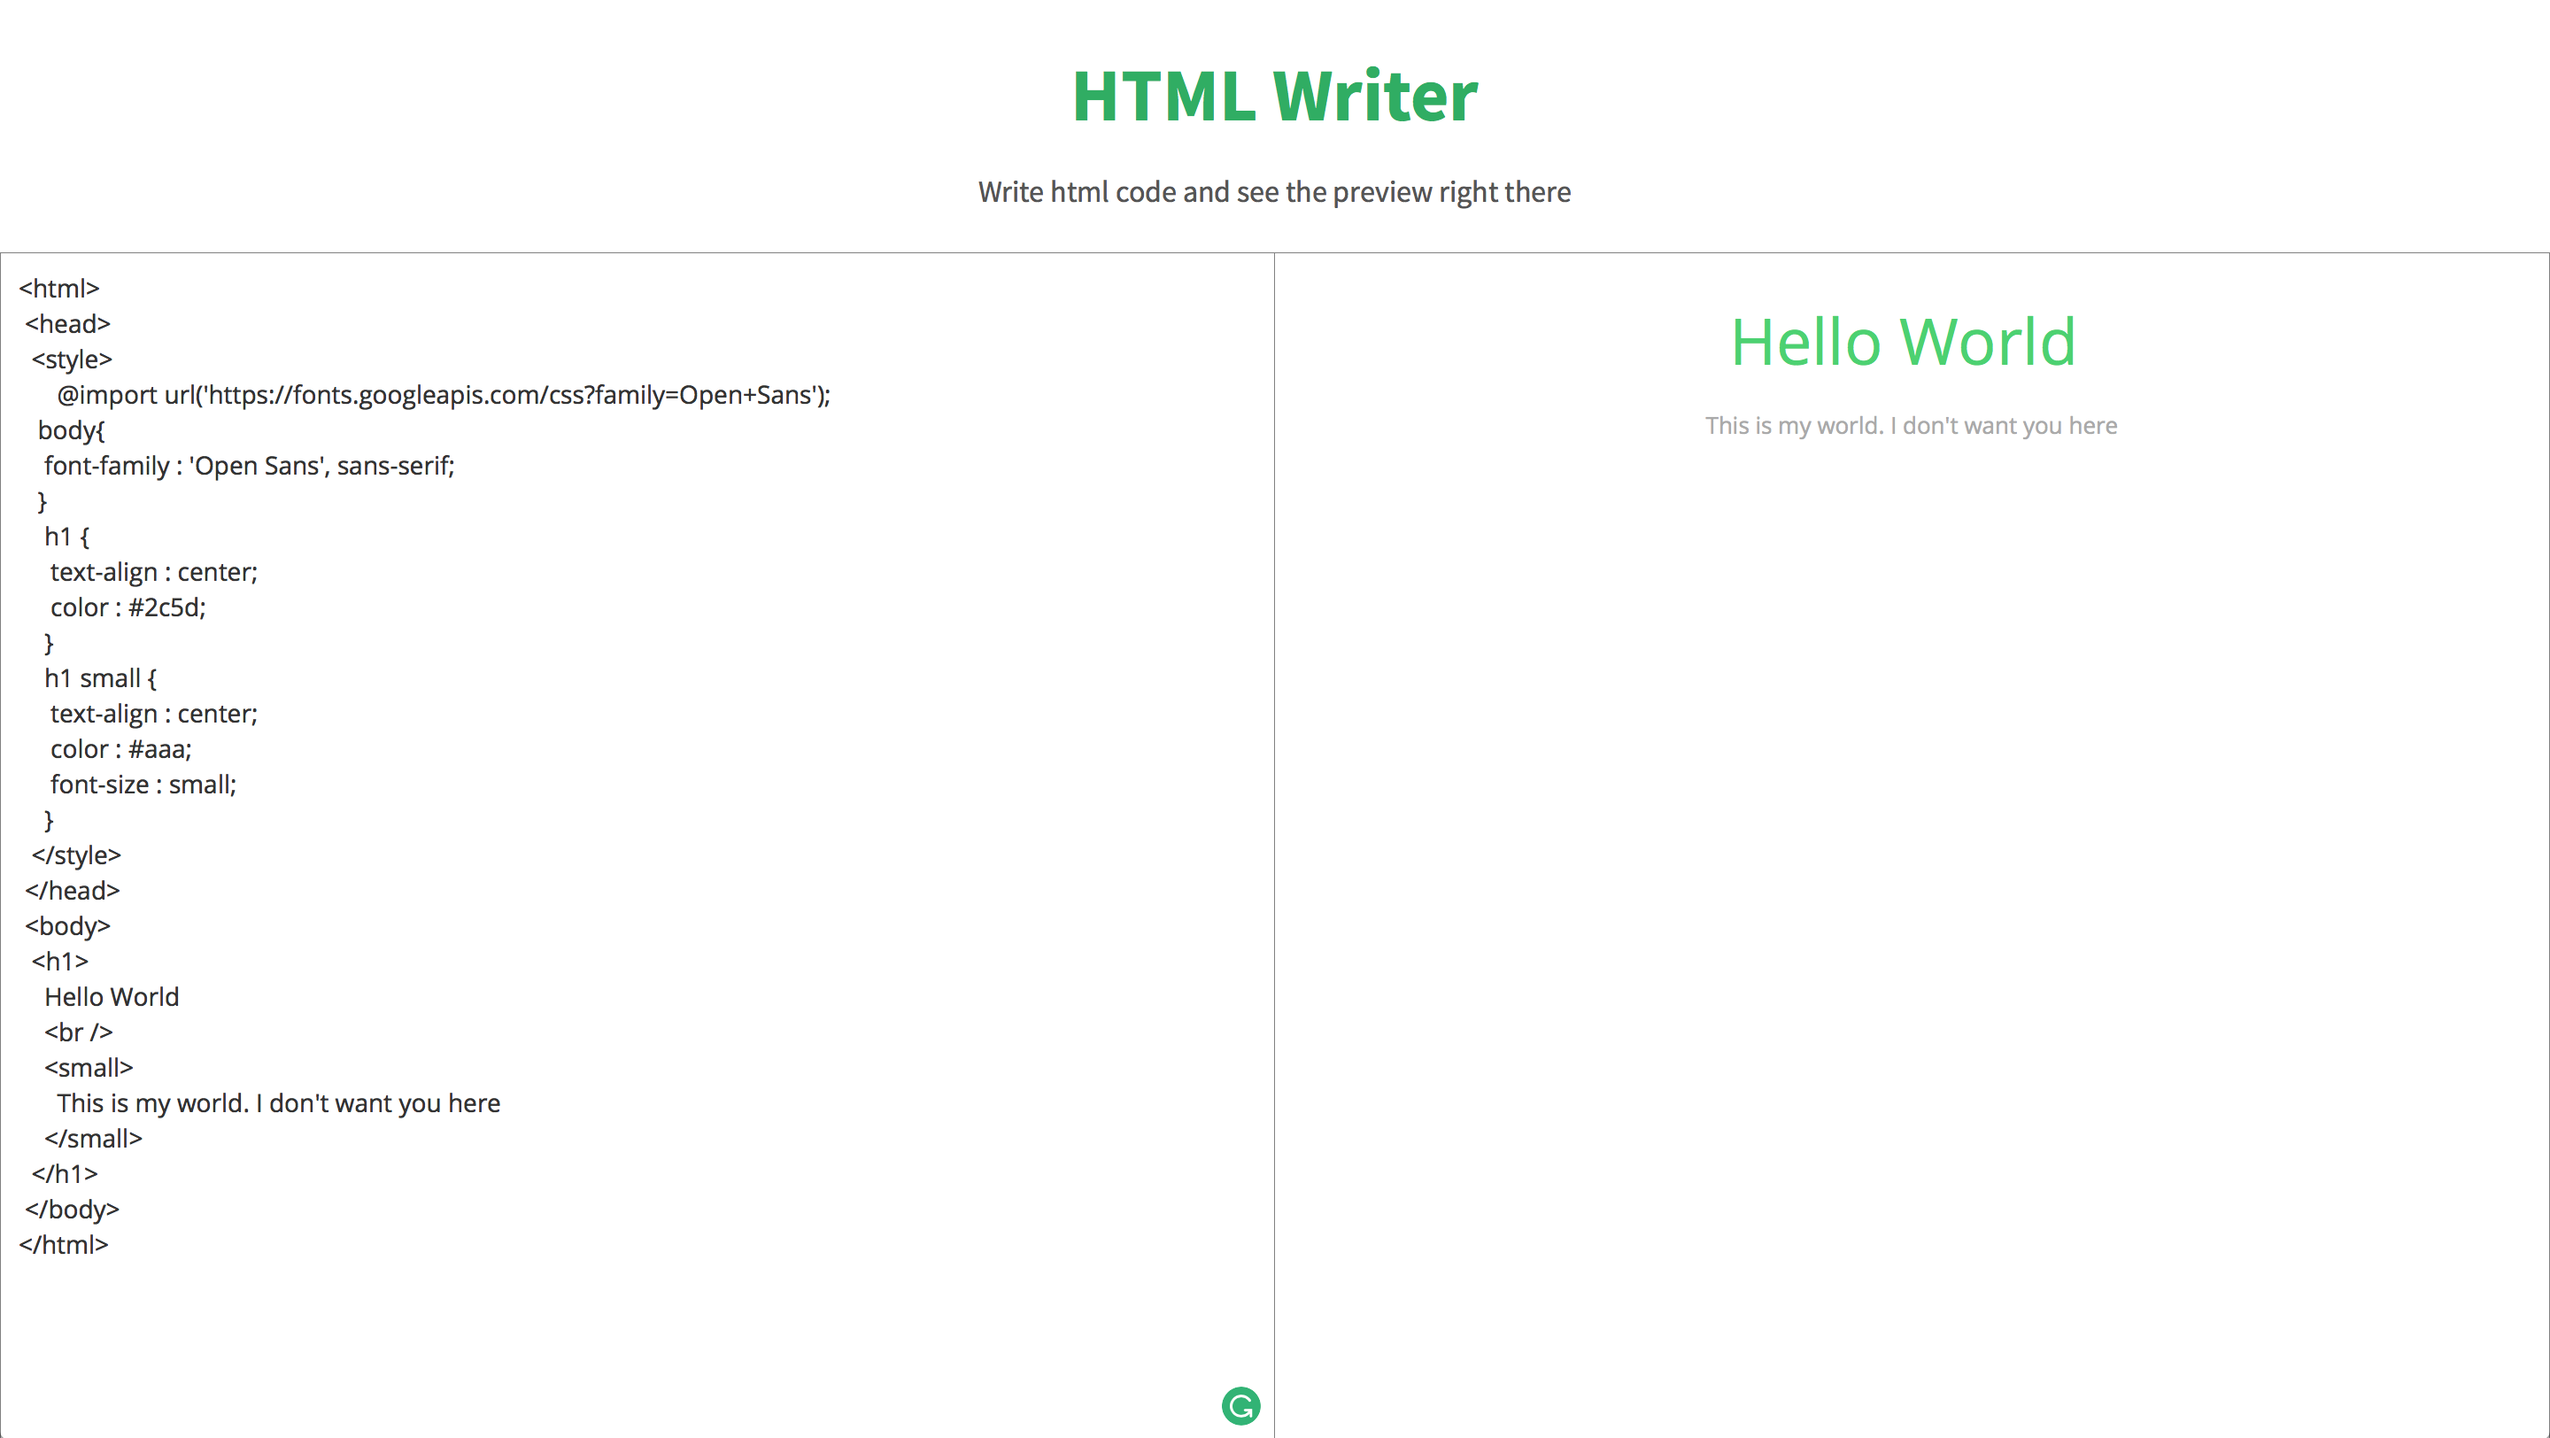
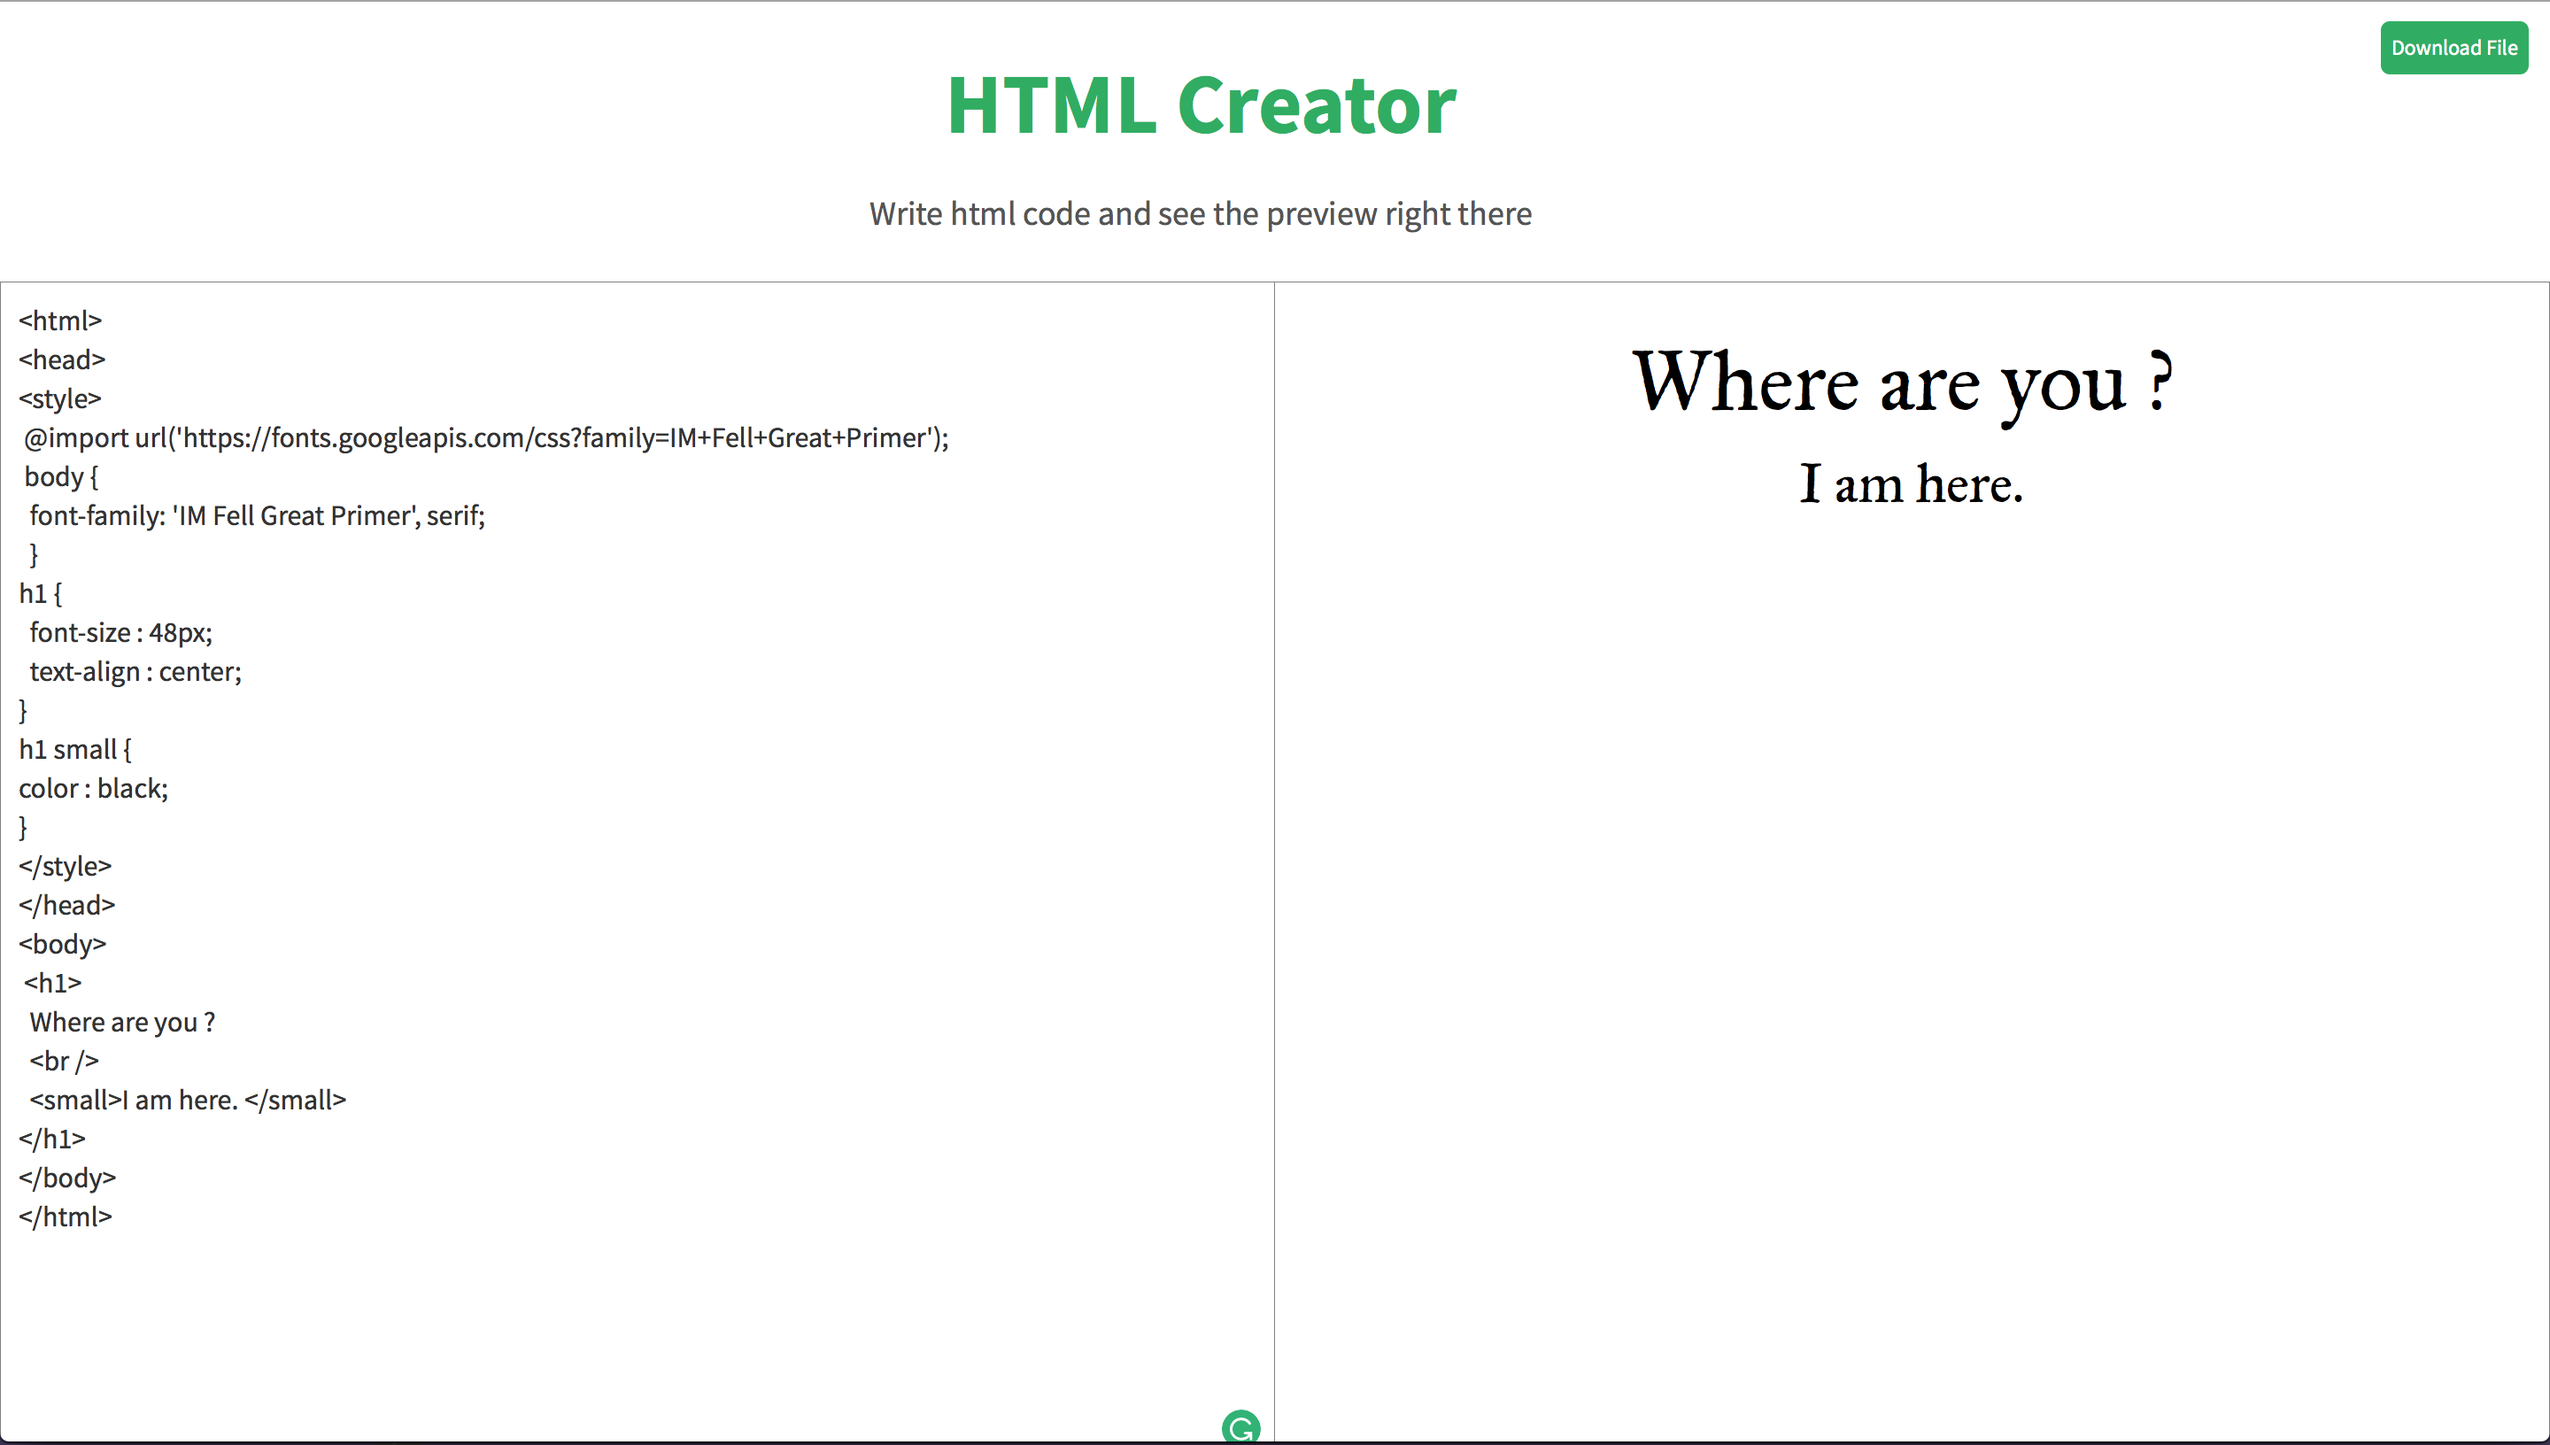
Custom Styles and Fonts feature and Dowloading HTML feature added

diff --git a/src/App.css b/src/App.css
@@ -1,30 +1,45 @@
 @import url("https://fonts.googleapis.com/css?family=Source+Sans+Pro:300,400,700");
-.views, textarea, .previewer {
+.views, .text-area-default, .previewer {
   width: 50%;
-  min-height: 82.5vh;
+  min-height: 82vh;
   padding: 10px;
   border: 0.2px solid gray; }
 
 body {
-  scroll-behavior: smooth; }
-  body nav {
-    font-family: "Source Sans Pro", sans-serif;
-    padding: 10px;
-    height: 17.5vh; }
-    body nav h1 {
-      font-size: 3em;
-      color: #27ae60;
-      font-weight: 700;
-      text-align: center; }
-      body nav h1 small {
-        font-size: 0.40em;
-        color: #555;
-        font-weight: 400; }
+  scroll-behavior: smooth;
+  font-size: 16px; }
 
-textarea {
+.navbar {
+  font-family: "Source Sans Pro", sans-serif !important;
+  padding: 10px;
+  height: 17vh;
+  display: flex; }
+  .navbar h1 {
+    font-size: 3em;
+    color: #27ae60;
+    font-weight: 700;
+    text-align: center;
+    flex: auto; }
+    .navbar h1 small {
+      font-size: 0.4em;
+      color: #555;
+      font-weight: 400; }
+  .navbar button {
+    flex-shrink: auto;
+    flex-direction: row;
+    border-radius: 5px;
+    vertical-align: middle;
+    max-height: 30px;
+    font-size: 1.5ch;
+    border: 0px;
+    background-color: #27ae60;
+    color: #fff; }
+
+.text-area-default {
+  font-family: "Source Sans Pro", sans-serif !important;
   float: left;
   resize: none; }
-  textarea:focus {
+  .text-area-default:focus {
     outline: 0px; }
 
 .flex-or-grid {
@@ -36,22 +51,28 @@ textarea {
   color: black;
   border-left: 0px; }
 
-@media (min-width: 768px) and (max-width: 1023px) {
-  nav h1 {
-    font-size: 2em; }
-    nav h1 small {
-      font-size: 0.5em; }
+@media (min-width: 768px) and (max-width: 1024px) {
+  nav {
+    height: 15vh; }
+    nav h1 {
+      font-size: 2em; }
+      nav h1 small {
+        font-size: 0.5em; }
+  .views, .text-area-default, .previewer {
+    height: 85vh; }
   .flex-or-grid {
     display: block; } }
 
-@media (max-width: 768px) {
-  nav h1 {
-    font-size: 2em; }
-    nav h1 small {
-      font-size: 0.55em; }
+@media (max-width: 500px) {
+  nav {
+    height: 10vh; }
+    nav h1 {
+      font-size: 1em; }
+      nav h1 small {
+        font-size: 0.75em; }
   .flex-or-grid {
     display: block; }
     .flex-or-grid .previewer {
       width: 100%; }
-    .flex-or-grid textarea {
+    .flex-or-grid .text-area-default {
       width: 100%; } }

diff --git a/src/App.sass b/src/App.sass
@@ -2,42 +2,58 @@
 
 $primary-color : #27ae60
 $primary-accent-text : #555
+$primary-accent-text-light : #fff
 $secondary-color : #222222
 $secondary-accent-text : #ddd
 $font-stack : 'Source Sans Pro', sans-serif
 
 
-$tablet : "(min-width : 768px) and (max-width : 1023px)"
-$phone : "(max-width : 768px)"
-$desktop : "(min-width : 1024px)"
+$tablet : "(min-width : 768px) and (max-width : 1024px)"
+$phone : "(max-width : 500px)"
+$desktop : "(min-width : 1025px)"
 
 .views
 	width: 50%
-	min-height: 82.5vh
+	min-height: 82vh
 	padding: 10px
 	border: 0.2px solid gray
 
 body
 	scroll-behavior: smooth
+	font-size: 16px
 
-	nav
-		font-family: $font-stack
-		padding: 10px
-		height : 17.5vh
+.navbar
+	font-family: $font-stack !important
+	padding: 10px
+	height : 17vh
+	display: flex
 
-		h1
-			font-size: 3em
-			color: $primary-color
-			font-weight: 700
-			text-align: center
+	h1
+		font-size: 3em
+		color: $primary-color
+		font-weight: 700
+		text-align: center
+		flex: auto
 
-			small
-				font-size: 0.40em
-				color: $primary-accent-text
-				font-weight: 400
+		small
+			font-size: 0.4em
+			color: $primary-accent-text
+			font-weight: 400
 
-textarea
+	button
+		flex-shrink: auto
+		flex-direction: row
+		border-radius: 5px
+		vertical-align: middle
+		max-height: 30px
+		font-size: 1.5ch
+		border: 0px
+		background-color: $primary-color
+		color: $primary-accent-text-light
+
+.text-area-default
 	@extend .views
+	font-family: $font-stack !important
 	float: left
 	resize: none
 
@@ -47,6 +63,7 @@ textarea
 
 .flex-or-grid
 	display: flex
+
 
 .previewer
 	@extend .views
@@ -58,20 +75,23 @@ textarea
 
 @media #{$tablet}
 	nav
+		height: 15vh
 		h1
 			font-size: 2em
 			small
 				font-size: 0.5em
-
+	.views
+		height: 85vh
 	.flex-or-grid
 		display: block
 
 @media #{$phone}
 	nav
+		height: 10vh
 		h1
-			font-size: 2em
+			font-size: 1em
 			small
-				font-size: 0.55em
+				font-size: 0.75em
 
 	.flex-or-grid
 		display: block
@@ -79,5 +99,5 @@ textarea
 		.previewer
 			width: 100%
 
-		textarea
+		.text-area-default
 			width: 100%

diff --git a/src/components/header.js b/src/components/header.js
@@ -1,15 +1,33 @@
 import React, { Component } from 'react';
+import { connect } from 'react-redux';
+import FileSaver from 'file-saver';
 
-export default class Header extends Component {
+let blob = new Blob();
+
+class Header extends Component {
+	handleDownload = () => {
+		FileSaver.saveAs(blob, 'preview.html');
+	};
+
 	render() {
+		blob = new Blob([this.props.data], { type: 'text/html' });
 		return (
-			<nav>
+			<nav className="navbar">
 				<h1>
 					HTML Creator
 					<br />
 					<small>Write html code and see the preview right there</small>
 				</h1>
+				<button onClick={this.handleDownload}>Download File </button>
 			</nav>
 		);
 	}
 }
+
+function mapStateToProps(state) {
+	return {
+		data: state.preview.data ? state.preview.data : ''
+	};
+}
+
+export default connect(mapStateToProps, null)(Header);

diff --git a/src/components/writer.js b/src/components/writer.js
@@ -14,17 +14,17 @@ class Writer extends Component {
 		this.setState({ data: e.target.value }, () => {
 			this.build(this.state.data);
 		});
-		// let { data, builder } = this.state;
-		// const lastChar = data.charAt(data.length - 1);
-		// if (data.charAt(data.length - 1) === '\n') {
-		// 	builder += lastChar + '<br />';
-		// } else {
-		// 	builder += lastChar;
-		// }
 	};
 
 	render() {
-		return <textarea name="text" onChange={e => this.handleSpecial(e)} />;
+		return (
+			<textarea
+				className="text-area-default"
+				name="text"
+				onChange={e => this.handleSpecial(e)}
+				placeholder="Write your HTML code here"
+			/>
+		);
 	}
 }
 

diff --git a/src/components/previewer.js b/src/components/previewer.js
@@ -1,12 +1,12 @@
 import React, { Component } from 'react';
 import { connect } from 'react-redux';
 
+export let { data } = '';
+
 class Preview extends Component {
 	renderData = () => {
-		return {
-			__html: `${this.props.data}`,
-			__css: ''
-		};
+		data = this.props.data;
+		return { __html: this.props.data };
 	};
 
 	render() {
